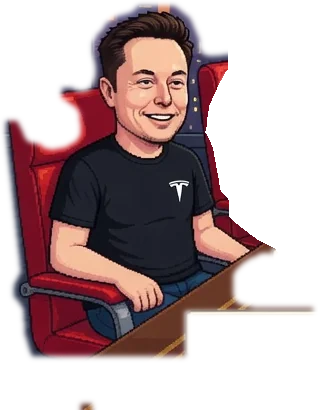
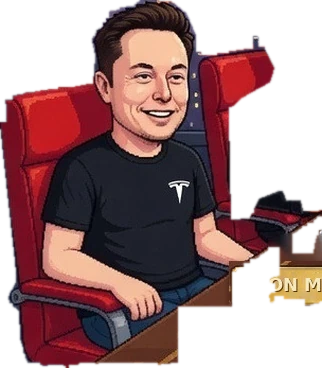
Coetáneos holgado: Musk, Huang, Lasseter y Reynolds al frente; cartelas delante de cada consejero (Murati incluida)

diff --git a/assets/council-silhouettes.js b/assets/council-silhouettes.js
@@ -1,1 +1,1 @@
-window.COUNCIL_SILHOUETTES = {"leyendas":{"width":1360,"height":768,"paths":{"Steve Jobs":"M167 314 L139 311 L121 319 L112 328 L106 341 L111 389 L32 412 L19 422 L23 488 L43 580 L40 608 L47 613 L48 621 L182 621 L183 607 L197 583 L213 565 L223 561 L223 470 L209 448 L191 432 L187 399 L196 369 L185 334 Z","Steve Wozniak":"M283 260 L270 268 L259 284 L258 335 L254 346 L248 350 L251 358 L256 358 L267 368 L272 386 L268 411 L273 429 L278 435 L288 427 L298 428 L301 423 L287 421 L282 417 L282 411 L317 404 L325 397 L323 384 L330 376 L338 377 L346 398 L345 434 L338 450 L319 450 L313 443 L291 442 L280 449 L273 463 L270 484 L285 486 L286 501 L282 507 L291 514 L298 529 L307 533 L308 540 L324 526 L361 529 L373 524 L373 497 L366 501 L360 499 L350 508 L340 505 L336 498 L317 494 L314 489 L322 482 L363 477 L373 472 L373 391 L363 382 L348 357 L334 347 L337 335 L332 309 L335 283 L327 270 L317 261 Z","Warren Buffett":"M438 209 L421 212 L406 228 L401 267 L415 284 L410 300 L374 326 L374 475 L418 484 L431 479 L448 479 L467 459 L455 451 L457 446 L471 439 L464 430 L464 419 L448 415 L446 407 L479 408 L487 404 L490 394 L503 388 L509 379 L506 366 L477 317 L453 302 L471 284 L469 240 L461 221 Z","Carlos Silva":"M668 176 L644 215 L640 255 L601 274 L598 400 L626 409 L667 409 L685 397 L701 409 L776 401 L785 376 L767 328 L767 273 L725 255 L707 186 Z","Dieter Rams":"M942 211 L923 232 L923 251 L916 258 L935 306 L916 321 L903 349 L906 363 L909 359 L918 359 L922 366 L922 381 L930 389 L912 406 L912 411 L939 419 L939 426 L925 434 L937 439 L944 451 L939 455 L912 458 L934 481 L1012 477 L1018 490 L1013 506 L1019 506 L1019 321 L983 298 L981 288 L994 270 L994 241 L989 229 L964 211 Z","Walt Disney":"M1080 244 L1052 252 L1042 270 L1040 300 L1046 325 L1060 342 L1040 360 L1022 380 L1020 470 L1040 492 L1100 495 L1130 488 L1155 470 L1155 380 L1140 360 L1118 345 L1122 320 L1124 290 L1116 262 L1100 248 Z","George Lucas":"M1214 328 L1196 349 L1196 382 L1205 432 L1189 442 L1156 486 L1156 563 L1171 578 L1168 601 L1185 621 L1181 637 L1185 652 L1181 659 L1187 659 L1187 653 L1193 647 L1199 653 L1198 659 L1224 659 L1224 636 L1227 622 L1233 616 L1232 599 L1258 594 L1264 598 L1263 609 L1244 616 L1275 626 L1282 622 L1284 614 L1297 612 L1300 622 L1298 647 L1304 659 L1325 659 L1328 614 L1336 607 L1332 594 L1320 588 L1306 588 L1301 584 L1313 549 L1316 478 L1310 463 L1279 433 L1275 424 L1283 409 L1284 355 L1268 334 L1256 328 L1230 324 Z"}},"coetaneos":{"width":1280,"height":720,"paths":{"Elon Musk":"M190 321 L164 321 L158 327 L139 333 L119 357 L124 380 L120 398 L127 414 L136 421 L137 439 L134 443 L95 462 L72 466 L69 471 L61 473 L56 469 L55 459 L47 470 L40 469 L38 447 L32 436 L48 584 L40 601 L50 612 L51 638 L58 660 L248 660 L248 511 L235 510 L218 465 L195 449 L207 426 L214 354 L205 333 Z","Jensen Huang":"M340 317 L314 315 L296 325 L289 337 L288 354 L283 364 L293 383 L288 399 L261 414 L249 426 L251 525 L264 522 L273 505 L295 496 L300 498 L303 506 L317 507 L319 516 L327 517 L335 512 L336 499 L354 487 L356 455 L349 425 L359 421 L351 399 L359 387 L364 356 L359 351 L355 331 Z","Mira Murati":"M482 272 L453 269 L440 275 L425 296 L415 349 L388 358 L387 375 L400 445 L395 458 L401 461 L402 474 L479 474 L548 445 L512 455 L521 449 L512 441 L513 431 L538 428 L518 389 L515 368 L509 360 L511 347 L504 334 L507 315 L499 292 Z","John Lasseter":"M1071 374 L1003 368 L991 329 L963 334 L959 326 L939 359 L945 409 L935 414 L923 411 L915 390 L901 382 L868 391 L855 380 L836 403 L828 391 L809 390 L812 409 L827 419 L825 452 L844 454 L844 480 L805 482 L805 533 L821 549 L919 542 L922 505 L970 524 L997 512 L1042 505 L1054 476 L1050 450 L1061 445 L1067 425 L1065 384 Z","Jony Ive":"M863 303 L851 314 L848 325 L848 363 L853 380 L835 398 L826 389 L817 390 L807 384 L800 387 L800 394 L807 397 L808 412 L825 410 L834 425 L834 432 L828 438 L851 460 L883 465 L884 480 L874 487 L875 493 L883 493 L892 485 L918 485 L925 481 L933 484 L933 402 L923 387 L896 369 L896 361 L907 347 L902 316 L889 304 Z","Ryan Reynolds":"M1109 331 L1094 349 L1092 370 L1098 418 L1111 451 L1101 466 L1105 474 L1105 494 L1091 517 L1084 516 L1081 498 L1081 592 L1150 592 L1155 589 L1161 592 L1212 592 L1226 569 L1225 536 L1217 487 L1204 467 L1176 451 L1163 434 L1179 401 L1176 355 L1160 336 L1145 329 Z"}}};
+window.COUNCIL_SILHOUETTES = {"leyendas":{"width":1360,"height":768,"paths":{"Steve Jobs":"M167 314 L139 311 L121 319 L112 328 L106 341 L111 389 L32 412 L19 422 L23 488 L43 580 L40 608 L47 613 L48 621 L182 621 L183 607 L197 583 L213 565 L223 561 L223 470 L209 448 L191 432 L187 399 L196 369 L185 334 Z","Steve Wozniak":"M283 260 L270 268 L259 284 L258 335 L254 346 L248 350 L251 358 L256 358 L267 368 L272 386 L268 411 L273 429 L278 435 L288 427 L298 428 L301 423 L287 421 L282 417 L282 411 L317 404 L325 397 L323 384 L330 376 L338 377 L346 398 L345 434 L338 450 L319 450 L313 443 L291 442 L280 449 L273 463 L270 484 L285 486 L286 501 L282 507 L291 514 L298 529 L307 533 L308 540 L324 526 L361 529 L373 524 L373 497 L366 501 L360 499 L350 508 L340 505 L336 498 L317 494 L314 489 L322 482 L363 477 L373 472 L373 391 L363 382 L348 357 L334 347 L337 335 L332 309 L335 283 L327 270 L317 261 Z","Warren Buffett":"M438 209 L421 212 L406 228 L401 267 L415 284 L410 300 L374 326 L374 475 L418 484 L431 479 L448 479 L467 459 L455 451 L457 446 L471 439 L464 430 L464 419 L448 415 L446 407 L479 408 L487 404 L490 394 L503 388 L509 379 L506 366 L477 317 L453 302 L471 284 L469 240 L461 221 Z","Carlos Silva":"M668 176 L644 215 L640 255 L601 274 L598 400 L626 409 L667 409 L685 397 L701 409 L776 401 L785 376 L767 328 L767 273 L725 255 L707 186 Z","Dieter Rams":"M942 211 L923 232 L923 251 L916 258 L935 306 L916 321 L903 349 L906 363 L909 359 L918 359 L922 366 L922 381 L930 389 L912 406 L912 411 L939 419 L939 426 L925 434 L937 439 L944 451 L939 455 L912 458 L934 481 L1012 477 L1018 490 L1013 506 L1019 506 L1019 321 L983 298 L981 288 L994 270 L994 241 L989 229 L964 211 Z","Walt Disney":"M1080 244 L1052 252 L1042 270 L1040 300 L1046 325 L1060 342 L1040 360 L1022 380 L1020 470 L1040 492 L1100 495 L1130 488 L1155 470 L1155 380 L1140 360 L1118 345 L1122 320 L1124 290 L1116 262 L1100 248 Z","George Lucas":"M1214 328 L1196 349 L1196 382 L1205 432 L1189 442 L1156 486 L1156 563 L1171 578 L1168 601 L1185 621 L1181 637 L1185 652 L1181 659 L1187 659 L1187 653 L1193 647 L1199 653 L1198 659 L1224 659 L1224 636 L1227 622 L1233 616 L1232 599 L1258 594 L1264 598 L1263 609 L1244 616 L1275 626 L1282 622 L1284 614 L1297 612 L1300 622 L1298 647 L1304 659 L1325 659 L1328 614 L1336 607 L1332 594 L1320 588 L1306 588 L1301 584 L1313 549 L1316 478 L1310 463 L1279 433 L1275 424 L1283 409 L1284 355 L1268 334 L1256 328 L1230 324 Z"}},"coetaneos":{"width":1280,"height":720,"paths":{"Elon Musk":"M182 325 L155 325 L148 331 L128 338 L107 363 L112 388 L108 407 L116 424 L125 431 L126 450 L123 454 L82 475 L57 479 L54 484 L46 486 L40 482 L39 471 L31 483 L23 482 L21 459 L15 447 L32 604 L23 622 L34 634 L35 661 L42 684 L244 684 L244 526 L230 525 L212 478 L188 461 L200 436 L208 360 L198 338 Z","Jensen Huang":"M342 325 L315 323 L296 334 L288 346 L287 364 L282 375 L292 395 L287 411 L259 427 L246 440 L248 544 L262 541 L271 523 L295 513 L300 515 L303 524 L318 525 L320 534 L328 535 L337 530 L338 516 L357 504 L359 470 L351 439 L362 434 L353 411 L362 399 L367 366 L362 361 L358 340 Z","Mira Murati":"M482 272 L453 269 L440 275 L425 296 L415 349 L388 358 L387 375 L400 445 L395 458 L401 461 L402 474 L479 474 L548 445 L512 455 L521 449 L512 441 L513 431 L538 428 L518 389 L515 368 L509 360 L511 347 L504 334 L507 315 L499 292 Z","John Lasseter":"M1086 384 L1014 378 L1002 337 L972 342 L968 334 L947 369 L954 421 L943 426 L930 423 L922 401 L907 393 L873 402 L859 391 L839 415 L831 402 L811 401 L814 421 L830 432 L828 466 L847 468 L847 496 L806 498 L806 551 L823 568 L926 561 L929 522 L980 542 L1008 529 L1055 522 L1068 492 L1064 464 L1075 459 L1082 438 L1080 395 Z","Jony Ive":"M863 303 L851 314 L848 325 L848 363 L853 380 L835 398 L826 389 L817 390 L807 384 L800 387 L800 394 L807 397 L808 412 L825 410 L834 425 L834 432 L828 438 L851 460 L883 465 L884 480 L874 487 L875 493 L883 493 L892 485 L918 485 L925 481 L933 484 L933 402 L923 387 L896 369 L896 361 L907 347 L902 316 L889 304 Z","Ryan Reynolds":"M1116 337 L1101 356 L1098 378 L1105 428 L1118 463 L1108 479 L1112 487 L1112 508 L1097 532 L1090 531 L1087 512 L1087 611 L1159 611 L1165 608 L1171 611 L1224 611 L1239 587 L1238 552 L1230 501 L1216 480 L1187 463 L1173 445 L1190 411 L1187 362 L1170 342 L1154 335 Z"}}};

diff --git a/council-globo.js b/council-globo.js
@@ -37,12 +37,12 @@
       'George Lucas': { activo: true, sobre: 'papel', puntos: [[72.279, 70.443], [75.588, 69.922], [77.059, 69.661], [78.235, 69.661], [79.265, 71.094], [81.25, 71.224], [82.5, 72.526], [79.118, 73.698], [73.529, 73.568], [72.279, 72.656]], flecha: { x: 90.735, y: 39.583 }, x: 77.389, y: 71.679, w: 10.221, h: 4.037 }
     },
     coetaneos: {
-      'Elon Musk': { activo: true, sobre: 'placa', puntos: [[16.25, 85.833], [27.734, 85.833], [28.047, 86.25], [28.203, 87.222], [28.203, 91.111], [27.891, 92.361], [16.406, 92.361], [16.094, 91.806], [16.094, 86.389]], flecha: { x: 13.125, y: 42.778 }, x: 22.148, y: 89.097, w: 12.109, h: 6.528 },
-      'Jensen Huang': { activo: true, sobre: 'placa', puntos: [[29.844, 68.611], [39.453, 68.472], [39.688, 68.889], [39.766, 70.139], [39.766, 73.056], [39.453, 73.889], [29.844, 73.889], [29.609, 73.333], [29.609, 69.167]], flecha: { x: 24.375, y: 41.389 }, x: 34.688, y: 71.18, w: 10.157, h: 5.417 },
-      'Mira Murati': { activo: true, sobre: 'placa', puntos: [[41.25, 67.5], [50.2, 67.5], [50.547, 67.9], [50.547, 74.3], [50.2, 74.722], [41.25, 74.722], [41.0, 74.3], [41.0, 67.9]], flecha: { x: 37.3, y: 36.8 }, x: 45.898, y: 71.111, w: 9.297, h: 7.222 },
-      'Jony Ive': { activo: true, sobre: 'placa', puntos: [[58.281, 62.778], [65.703, 62.639], [65.938, 63.056], [66.016, 64.167], [66.016, 66.389], [65.781, 67.083], [58.359, 67.083], [58.125, 66.667], [58.125, 63.194]], flecha: { x: 68.594, y: 39.444 }, x: 62.071, y: 64.861, w: 7.891, h: 4.444 },
-      'John Lasseter': { activo: true, sobre: 'placa', puntos: [[66.953, 74.861], [77.188, 74.861], [77.5, 75.278], [77.578, 76.389], [77.578, 80.139], [77.266, 80.972], [67.031, 80.972], [66.797, 80.417], [66.797, 75.417]], flecha: { x: 76.563, y: 42.222 }, x: 72.188, y: 77.916, w: 10.781, h: 6.111 },
-      'Ryan Reynolds': { activo: true, sobre: 'placa', puntos: [[73.359, 85.972], [84.844, 85.972], [85.078, 86.389], [85.078, 91.806], [84.844, 92.5], [73.359, 92.5], [73.047, 91.944], [72.812, 90.972], [72.812, 88.056], [73.047, 86.389]], flecha: { x: 88.75, y: 41.389 }, x: 78.945, y: 89.236, w: 12.266, h: 6.528 }
+      'Elon Musk': { activo: true, sobre: 'placa', puntos: [[18.984, 81.25], [30.703, 81.25], [30.703, 87.639], [18.984, 87.639]], flecha: { x: 12.5, y: 44.722 }, x: 24.843, y: 84.445, w: 11.719, h: 6.389 },
+      'Jensen Huang': { activo: true, sobre: 'placa', puntos: [[26.25, 69.722], [36.562, 69.722], [36.562, 75.278], [26.25, 75.278]], flecha: { x: 24.375, y: 43.333 }, x: 31.406, y: 72.5, w: 10.312, h: 5.556 },
+      'Mira Murati': { activo: true, sobre: 'placa', puntos: [[36.094, 63.75], [45.469, 63.75], [45.469, 68.75], [36.094, 68.75]], flecha: { x: 37.3, y: 36.8 }, x: 40.782, y: 66.25, w: 9.375, h: 5.0 },
+      'Jony Ive': { activo: true, sobre: 'placa', puntos: [[58.047, 62.5], [66.172, 62.5], [66.172, 67.222], [58.047, 67.222]], flecha: { x: 68.594, y: 39.444 }, x: 62.109, y: 64.861, w: 8.125, h: 4.722 },
+      'John Lasseter': { activo: true, sobre: 'placa', puntos: [[69.531, 74.861], [80.156, 74.861], [80.156, 80.694], [69.531, 80.694]], flecha: { x: 77.188, y: 44.166 }, x: 74.844, y: 77.778, w: 10.625, h: 5.833 },
+      'Ryan Reynolds': { activo: true, sobre: 'placa', puntos: [[75.781, 84.028], [87.656, 84.028], [87.656, 90.417], [75.781, 90.417]], flecha: { x: 89.531, y: 43.333 }, x: 81.719, y: 87.222, w: 11.875, h: 6.389 }
     }
   };
   const CSS = `

diff --git a/index.html b/index.html
@@ -4591,23 +4591,23 @@ body.rail-open{overflow:hidden}
 <script defer src="council-todo.js?v=20260930-flt101302"></script>
 <script defer src="council-estado.js?v=20261111-mascaras"></script>
 <script defer src="council-globo.js?v=20261112-r157-caja-fija"></script>
-<script defer src="assets/council-silhouettes.js?v=20261112-murati-jensen"></script>
-<script defer src="assets/council-recorte.js?v=20261112-murati-jensen"></script>
+<script defer src="assets/council-silhouettes.js?v=20261112-holgado"></script>
+<script defer src="assets/council-recorte.js?v=20261112-holgado"></script>
 <script defer src="/assets/cli-bilingue.js?v=20261006-r19-bilingue"></script>
 <script defer src="/assets/interface-cli.js?v=20261011-5707-selector2"></script>
 <script defer src="/assets/diario-cli.js?v=20261012-5796"></script>
 <script defer src="/assets/cli-ayuda.js?v=20261011-5707-selector"></script>
 <link rel="stylesheet" href="/assets/webcam.css?v=20261014-5863">
 <script defer src="/assets/webcam.js?v=20261014-5863"></script>
-<script defer src="assets/council-presencia.js?v=20261112-murati-jensen"></script>
-<script defer src="app.flt-100529.js?v=20261112-murati-jensen"></script>
+<script defer src="assets/council-presencia.js?v=20261112-holgado"></script>
+<script defer src="app.flt-100529.js?v=20261112-holgado"></script>
 <script defer src="council-preview.js?v=20260921-ultra1"></script>
 <script defer src="council-composer.js?v=20261009-r9-paste"></script>
 <script defer src="council-working.js?v=20260930-flt101302"></script>
 <script defer src="/consejeros-voces.js?v=20261111-voces2"></script>
 <script defer src="hablar-cmd.js?v=20261111-hablar-2"></script>
 <script defer src="council-integration.js?v=20261111-hablar-2"></script>
-<script type="module" src="assets/mac-hoy.js?v=20261112-murati-jensen-coetaneos"></script>
+<script type="module" src="assets/mac-hoy.js?v=20261112-holgado-coetaneos"></script>
 <script src="assets/mac-proyecto.js?v=20261024-previos2"></script>
 <script defer src="assets/aviso-version.js?v=20261004-5113c"></script>
 <script defer src="assets/sello-novedades.js?v=20261006-r15-idioma"></script>

diff --git a/assets/council-recorte.js b/assets/council-recorte.js
@@ -13,7 +13,7 @@
   function dims(gen) { var s = sil(gen); return s ? [s.width, s.height] : (gen === 'coetaneos' ? [1280, 720] : [1360, 768]); }
   // Recortes guardados ANTES de la foto actual de cada sala no valen: son de otro arte.
   // (11-nov-2026: los del 4-oct, sala de 8, ponían a Disney sobre Carlos y a Lucas en la silla de Disney.)
-  var ARTE_DESDE = { leyendas: '2026-11-06T00:00:00Z', coetaneos: '2026-11-12T08:00:00Z' };
+  var ARTE_DESDE = { leyendas: '2026-11-06T00:00:00Z', coetaneos: '2026-11-12T08:20:00Z' };
   function vigente(gen) { var desde = ARTE_DESDE[gen]; if (!desde) return true; var t = Date.parse(data.updatedAt || ''); return !!t && t >= Date.parse(desde); }
   function poly(gen, persona) { if (!vigente(gen)) return null; var g = data.polys && data.polys[gen]; return g && g[persona] && g[persona].length >= 3 ? g[persona] : null; }
   function toPath(pts, W, H) {

diff --git a/app.flt-100529.js b/app.flt-100529.js
@@ -261,7 +261,7 @@
     let currentGen = "leyendas";
     let speakerTurnMap = {};
     let activeLegendPersona = "Steve Jobs";
-    const COUNCIL_IMAGE_VERSION = "20261112-murati-jensen";
+    const COUNCIL_IMAGE_VERSION = "20261112-holgado";
     const LEGEND_MANDATES = {
         "Steve Jobs": {
             short: "foco producto",

diff --git a/app.js b/app.js
@@ -261,7 +261,7 @@
     let currentGen = "leyendas";
     let speakerTurnMap = {};
     let activeLegendPersona = "Steve Jobs";
-    const COUNCIL_IMAGE_VERSION = "20261112-murati-jensen";
+    const COUNCIL_IMAGE_VERSION = "20261112-holgado";
     const LEGEND_MANDATES = {
         "Steve Jobs": {
             short: "foco producto",

diff --git a/assets/council-presencia.js b/assets/council-presencia.js
@@ -5,7 +5,7 @@
 (function (root) {
   'use strict';
   var KEY = 'admira:consejo-presencia';
-  var ASSET_V = '20261112-murati-jensen';
+  var ASSET_V = '20261112-holgado';
   var GENS = {
     leyendas: [
       ['Steve Jobs', 'CEO', 'racional', ['jobs', 'steve jobs', 'steve-jobs']],
